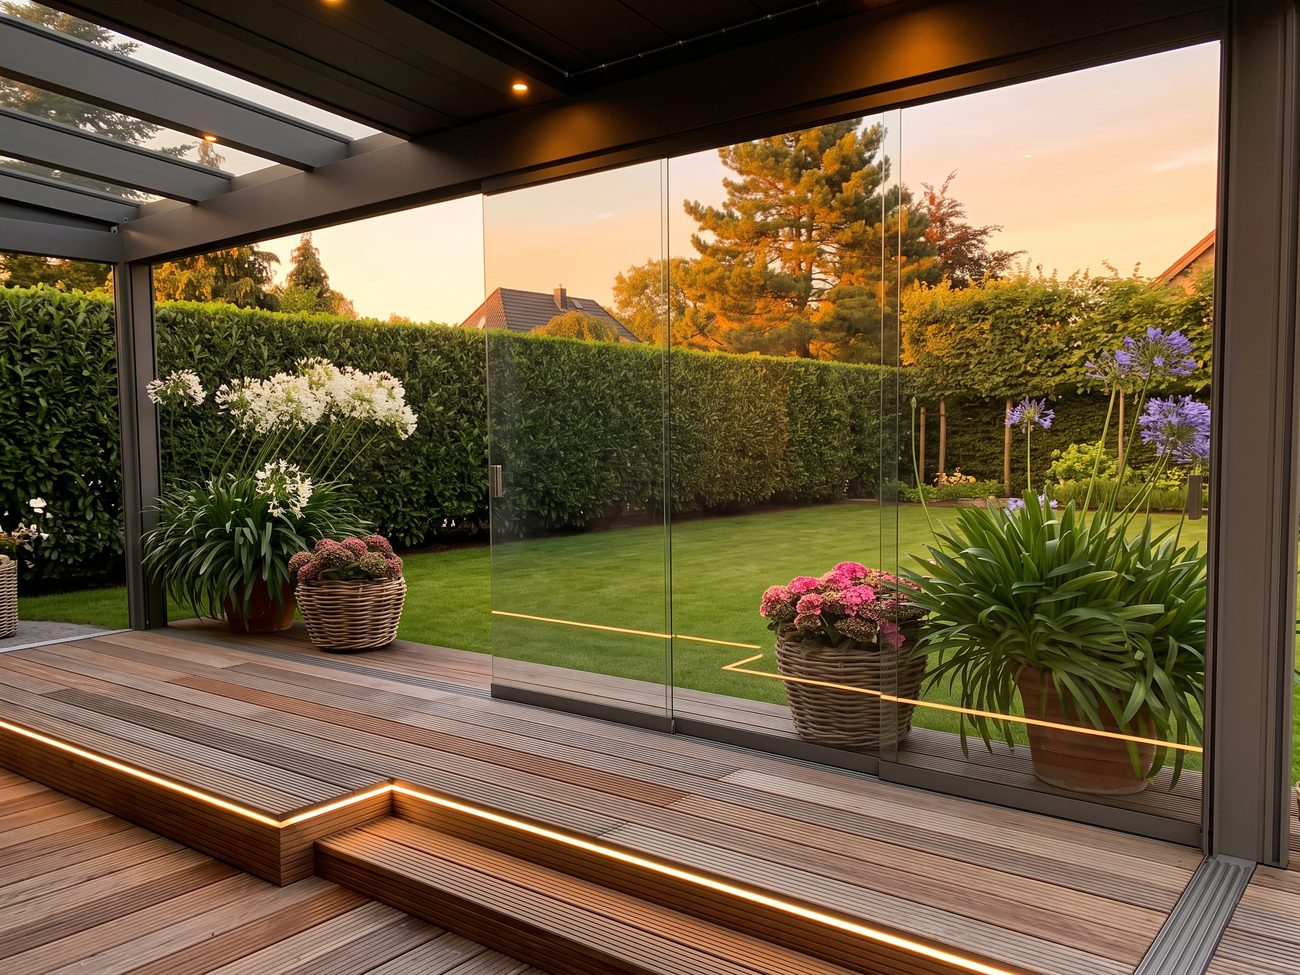
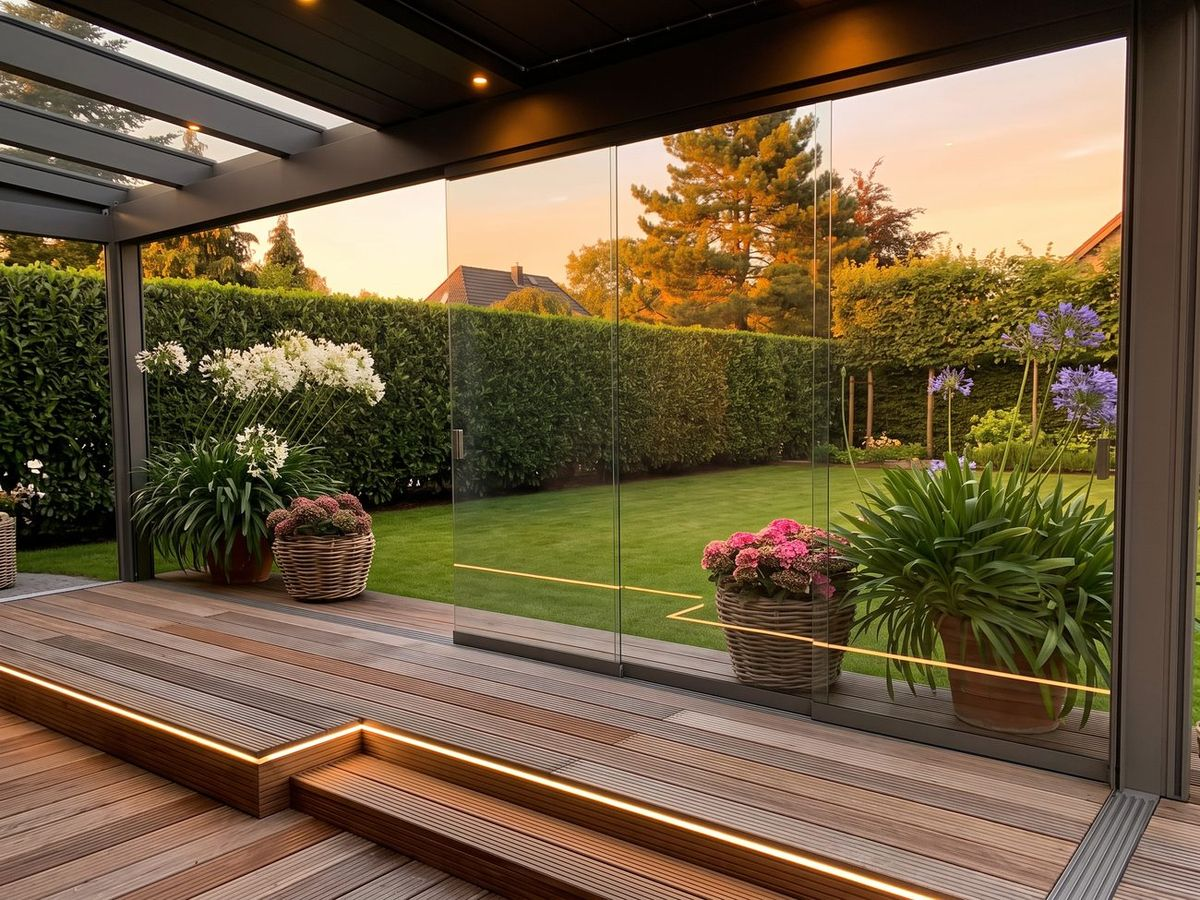
Optimization: lazy-load all background photos (catalog/gallery/marquee) via IntersectionObserver for a fast first paint; recompress 3 heavy images; preload heading font (Futura Demi) and drop unused Jost webfont request

diff --git a/v2.html b/v2.html
@@ -16,7 +16,8 @@
 
 <link rel="preconnect" href="https://fonts.googleapis.com">
 <link rel="preconnect" href="https://fonts.gstatic.com" crossorigin>
-<link href="https://fonts.googleapis.com/css2?family=Jost:wght@300;400;500;600;700&family=Manrope:wght@400;500;600;700;800&display=swap" rel="stylesheet">
+<link rel="preload" as="font" type="font/woff2" href="fonts/futura_pt_demi.woff2" crossorigin>
+<link href="https://fonts.googleapis.com/css2?family=Manrope:wght@400;500;600;700;800&display=swap" rel="stylesheet">
 
 <style>
 /* фирменный шрифт логотипа — Futura PT (локально, из папки fonts/) */
@@ -754,34 +755,34 @@ footer .bottom{display:flex;justify-content:space-between;gap:16px;flex-wrap:wra
   </div>
   <div class="marquee reveal">
     <div class="marquee-track">
-      <div class="marquee-item" data-idx="0" style="background-image:url('img/work-01.jpg')"></div>
-      <div class="marquee-item" data-idx="1" style="background-image:url('img/work-02.jpg')"></div>
-      <div class="marquee-item" data-idx="2" style="background-image:url('img/work-03.jpg')"></div>
-      <div class="marquee-item" data-idx="3" style="background-image:url('img/work-04.jpg')"></div>
-      <div class="marquee-item" data-idx="4" style="background-image:url('img/work-05.jpg')"></div>
-      <div class="marquee-item" data-idx="5" style="background-image:url('img/work-06.jpg')"></div>
-      <div class="marquee-item" data-idx="6" style="background-image:url('img/work-07.jpg')"></div>
-      <div class="marquee-item" data-idx="7" style="background-image:url('img/work-08.jpg')"></div>
-      <div class="marquee-item" data-idx="8" style="background-image:url('img/work-09.jpg')"></div>
-      <div class="marquee-item" data-idx="9" style="background-image:url('img/work-10.jpg')"></div>
-      <div class="marquee-item" data-idx="10" style="background-image:url('img/work-11.jpg')"></div>
-      <div class="marquee-item" data-idx="11" style="background-image:url('img/work-12.jpg')"></div>
-      <div class="marquee-item" data-idx="12" style="background-image:url('img/work-13.jpg')"></div>
-      <div class="marquee-item" data-idx="13" style="background-image:url('img/work-14.jpg')"></div>
-      <div class="marquee-item" data-idx="0" aria-hidden="true" style="background-image:url('img/work-01.jpg')"></div>
-      <div class="marquee-item" data-idx="1" aria-hidden="true" style="background-image:url('img/work-02.jpg')"></div>
-      <div class="marquee-item" data-idx="2" aria-hidden="true" style="background-image:url('img/work-03.jpg')"></div>
-      <div class="marquee-item" data-idx="3" aria-hidden="true" style="background-image:url('img/work-04.jpg')"></div>
-      <div class="marquee-item" data-idx="4" aria-hidden="true" style="background-image:url('img/work-05.jpg')"></div>
-      <div class="marquee-item" data-idx="5" aria-hidden="true" style="background-image:url('img/work-06.jpg')"></div>
-      <div class="marquee-item" data-idx="6" aria-hidden="true" style="background-image:url('img/work-07.jpg')"></div>
-      <div class="marquee-item" data-idx="7" aria-hidden="true" style="background-image:url('img/work-08.jpg')"></div>
-      <div class="marquee-item" data-idx="8" aria-hidden="true" style="background-image:url('img/work-09.jpg')"></div>
-      <div class="marquee-item" data-idx="9" aria-hidden="true" style="background-image:url('img/work-10.jpg')"></div>
-      <div class="marquee-item" data-idx="10" aria-hidden="true" style="background-image:url('img/work-11.jpg')"></div>
-      <div class="marquee-item" data-idx="11" aria-hidden="true" style="background-image:url('img/work-12.jpg')"></div>
-      <div class="marquee-item" data-idx="12" aria-hidden="true" style="background-image:url('img/work-13.jpg')"></div>
-      <div class="marquee-item" data-idx="13" aria-hidden="true" style="background-image:url('img/work-14.jpg')"></div>
+      <div class="marquee-item" data-idx="0" style="--img:url('img/work-01.jpg')"></div>
+      <div class="marquee-item" data-idx="1" style="--img:url('img/work-02.jpg')"></div>
+      <div class="marquee-item" data-idx="2" style="--img:url('img/work-03.jpg')"></div>
+      <div class="marquee-item" data-idx="3" style="--img:url('img/work-04.jpg')"></div>
+      <div class="marquee-item" data-idx="4" style="--img:url('img/work-05.jpg')"></div>
+      <div class="marquee-item" data-idx="5" style="--img:url('img/work-06.jpg')"></div>
+      <div class="marquee-item" data-idx="6" style="--img:url('img/work-07.jpg')"></div>
+      <div class="marquee-item" data-idx="7" style="--img:url('img/work-08.jpg')"></div>
+      <div class="marquee-item" data-idx="8" style="--img:url('img/work-09.jpg')"></div>
+      <div class="marquee-item" data-idx="9" style="--img:url('img/work-10.jpg')"></div>
+      <div class="marquee-item" data-idx="10" style="--img:url('img/work-11.jpg')"></div>
+      <div class="marquee-item" data-idx="11" style="--img:url('img/work-12.jpg')"></div>
+      <div class="marquee-item" data-idx="12" style="--img:url('img/work-13.jpg')"></div>
+      <div class="marquee-item" data-idx="13" style="--img:url('img/work-14.jpg')"></div>
+      <div class="marquee-item" data-idx="0" aria-hidden="true" style="--img:url('img/work-01.jpg')"></div>
+      <div class="marquee-item" data-idx="1" aria-hidden="true" style="--img:url('img/work-02.jpg')"></div>
+      <div class="marquee-item" data-idx="2" aria-hidden="true" style="--img:url('img/work-03.jpg')"></div>
+      <div class="marquee-item" data-idx="3" aria-hidden="true" style="--img:url('img/work-04.jpg')"></div>
+      <div class="marquee-item" data-idx="4" aria-hidden="true" style="--img:url('img/work-05.jpg')"></div>
+      <div class="marquee-item" data-idx="5" aria-hidden="true" style="--img:url('img/work-06.jpg')"></div>
+      <div class="marquee-item" data-idx="6" aria-hidden="true" style="--img:url('img/work-07.jpg')"></div>
+      <div class="marquee-item" data-idx="7" aria-hidden="true" style="--img:url('img/work-08.jpg')"></div>
+      <div class="marquee-item" data-idx="8" aria-hidden="true" style="--img:url('img/work-09.jpg')"></div>
+      <div class="marquee-item" data-idx="9" aria-hidden="true" style="--img:url('img/work-10.jpg')"></div>
+      <div class="marquee-item" data-idx="10" aria-hidden="true" style="--img:url('img/work-11.jpg')"></div>
+      <div class="marquee-item" data-idx="11" aria-hidden="true" style="--img:url('img/work-12.jpg')"></div>
+      <div class="marquee-item" data-idx="12" aria-hidden="true" style="--img:url('img/work-13.jpg')"></div>
+      <div class="marquee-item" data-idx="13" aria-hidden="true" style="--img:url('img/work-14.jpg')"></div>
     </div>
   </div>
 </section>
@@ -1044,11 +1045,21 @@ const RM=window.matchMedia('(prefers-reduced-motion:reduce)').matches;
 const io=new IntersectionObserver((e)=>e.forEach(x=>{if(x.isIntersecting){x.target.classList.add('in');io.unobserve(x.target)}}),{threshold:.12});
 document.querySelectorAll('.reveal').forEach(el=>io.observe(el));
 
-// показать реальное фото в плейсхолдерах, если файл существует
-document.querySelectorAll('.ph[style*="--img"]').forEach(ph=>{
-  const m=getComputedStyle(ph).getPropertyValue('--img').match(/url\((['"]?)(.*?)\1\)/);
-  if(!m)return;const img=new Image();img.onload=()=>{ph.style.backgroundImage="var(--img)";ph.setAttribute('data-img','')};img.src=m[2];
-});
+// ленивая загрузка фоновых фото: background ставим при подходе к вьюпорту (быстрый первый экран)
+(function(){
+  const load=el=>{el.style.backgroundImage="var(--img)";el.setAttribute('data-img','');};
+  if(!('IntersectionObserver' in window)){
+    document.querySelectorAll('.ph[style*="--img"],.marquee-item[style*="--img"]').forEach(load);return;
+  }
+  const io=new IntersectionObserver((es,o)=>es.forEach(e=>{if(e.isIntersecting){load(e.target);o.unobserve(e.target);}}),{rootMargin:'600px'});
+  document.querySelectorAll('.ph[style*="--img"]').forEach(el=>io.observe(el));
+  const marquee=document.querySelector('.marquee');
+  if(marquee){
+    const items=[...marquee.querySelectorAll('.marquee-item[style*="--img"]')];
+    const mio=new IntersectionObserver((es,o)=>es.forEach(e=>{if(e.isIntersecting){items.forEach(load);o.disconnect();}}),{rootMargin:'700px'});
+    mio.observe(marquee);
+  }
+})();
 // hero фон
 (function(){const b=document.getElementById('heroBg');if(!b)return;const m=b.style.getPropertyValue('--hero-img').match(/url\((['"]?)(.*?)\1\)/);if(!m)return;const i=new Image();i.onload=()=>b.classList.add('hasimg');i.src=m[2];})();
 
